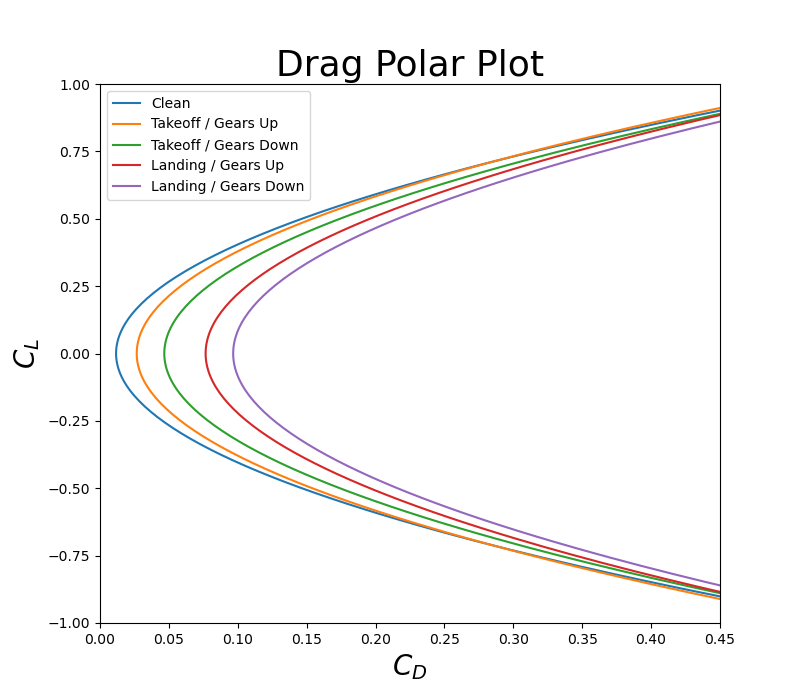
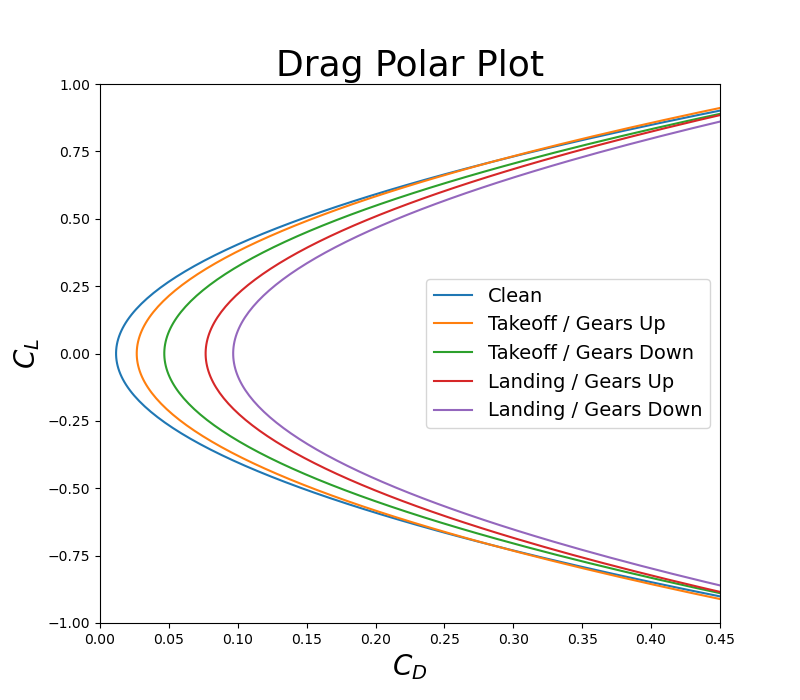
font size change

diff --git a/plot_drag_polars.py b/plot_drag_polars.py
@@ -39,7 +39,7 @@ plt.plot(CD_tkdwn, CL, label = "Takeoff / Gears Down")
 plt.plot(CD_lndup, CL, label = "Landing / Gears Up")
 plt.plot(CD_lndwn, CL, label = "Landing / Gears Down")
 plt.legend()
-plt.legend(loc="best")
+plt.legend(loc="best", fontsize=14)
 plt.xlim(0, 0.45)
 plt.ylim(-1, 1)
 plt.title("Drag Polar Plot", fontsize=26)
